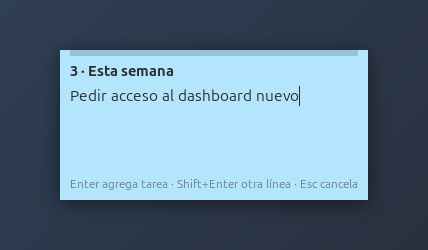
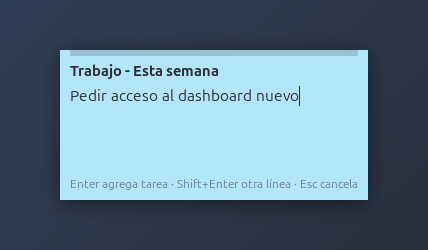
Captura rápida: el título muestra «Categoría - Nota»
También evita el «None · …» al abrirla desde el buscador para una nota
sin número. Captura del README actualizada.

Changed region(s): [[0.1519, 0.252, 0.5164, 0.308]]

diff --git a/notitas/quick.py b/notitas/quick.py
@@ -7,7 +7,7 @@ from . import style, x11
 
 class QuickCapture(Gtk.Window):
     def __init__(self, app, store, note):
-        super().__init__(application=app, title=f"Notitas · {note.number}")
+        super().__init__(application=app, title=f"Notitas · {note.title or 'Sin título'}")
         self.store = store
         self.note_id = note.id
         self._had_focus = False
@@ -27,7 +27,8 @@ class QuickCapture(Gtk.Window):
         header = Gtk.Label(xalign=0, ellipsize=Pango.EllipsizeMode.END)
         header.add_css_class("header")
         header.set_margin_top(6)
-        header.set_label(f"{note.number} · {note.title or 'Sin título'}")
+        category = store.category(note.category_id)
+        header.set_label(f"{category.name if category else 'Sin categoría'} - {note.title or 'Sin título'}")
         box.append(header)
 
         self.view = Gtk.TextView(wrap_mode=Gtk.WrapMode.WORD_CHAR, vexpand=True)
